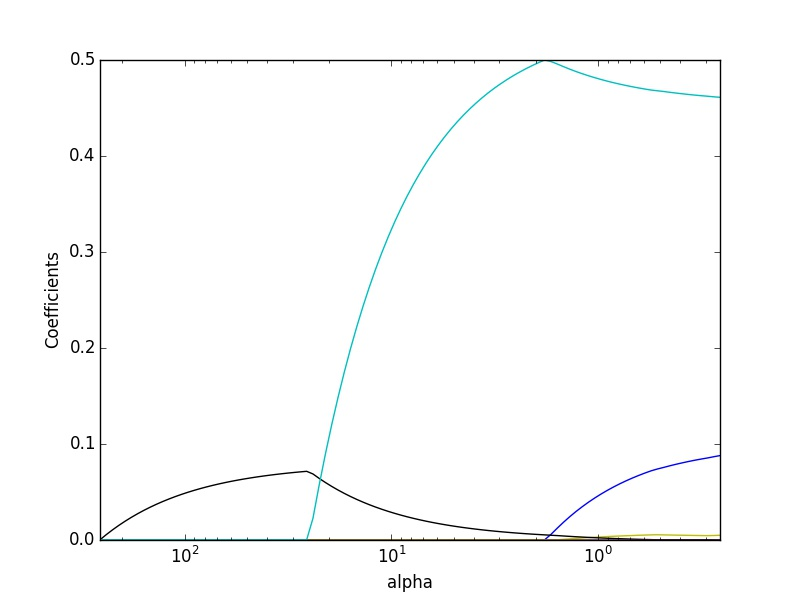
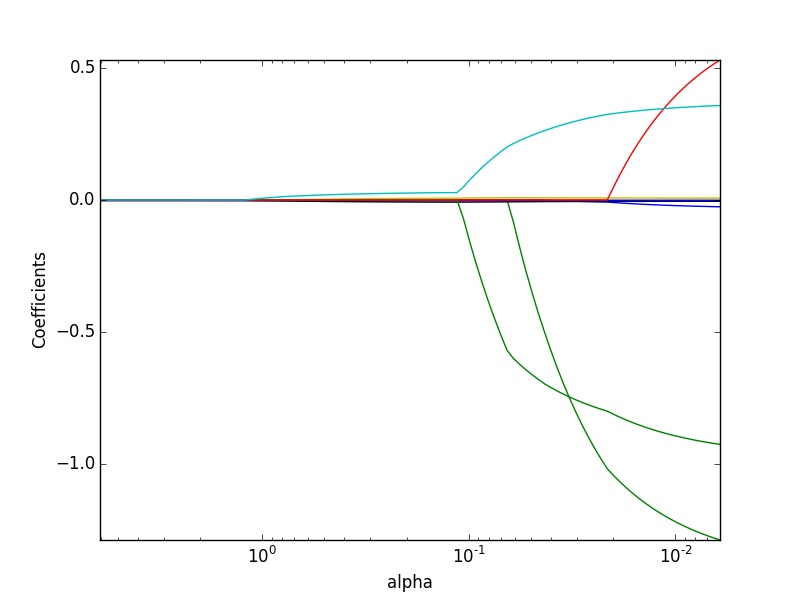
fixed graph

diff --git a/wineLassoCoefCurves.py b/wineLassoCoefCurves.py
@@ -49,7 +49,7 @@ meanLabel = sum(labels)/nrows
 sdLabel = sqrt(sum([(labels[i] - meanLabel) * (labels[i] - meanLabel) for i in range(nrows)]) / nrows)
 labelNormalized = [(labels[i] - meanLabel) / sdLabel for i in range(nrows)]
 
-yNormed = False
+yNormed = True
 xNormed = False
 
 if yNormed:
